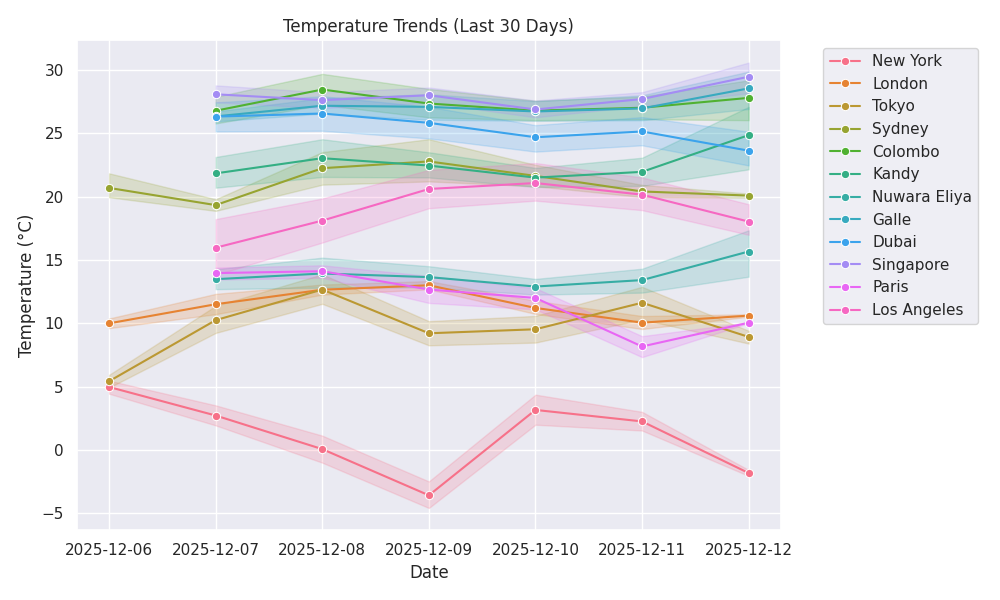
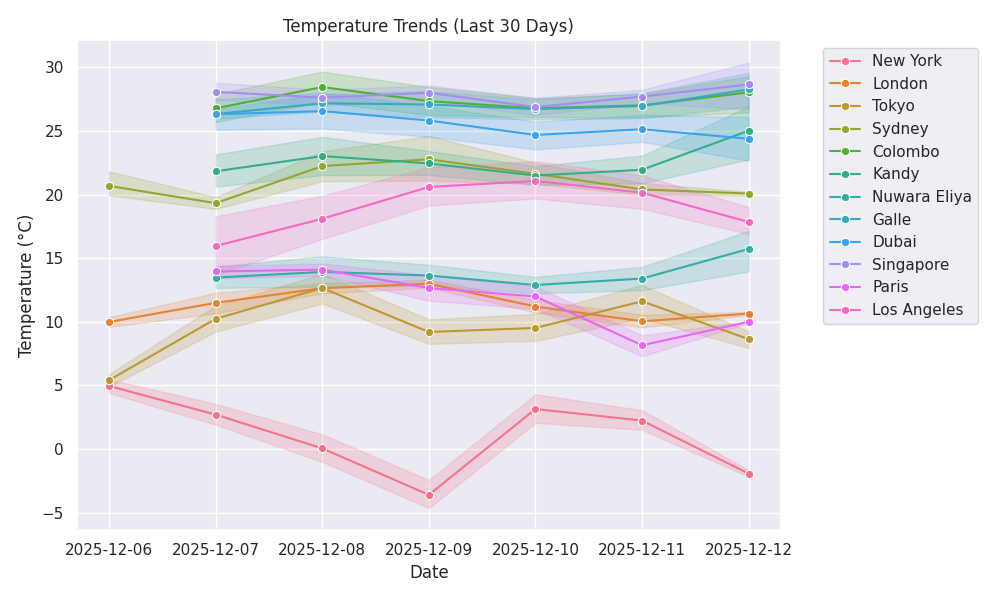
🌦 Weather update: 2025-12-12 08:20

diff --git a/public/index.html b/public/index.html
@@ -11,7 +11,7 @@
     <div class="max-w-6xl mx-auto">
         <header class="mb-8 text-center">
             <h1 class="text-4xl font-bold mb-2">🌍 Global Weather Dashboard</h1>
-            <p class="text-slate-400">Last Updated: 2025-12-12 07:17:36</p>
+            <p class="text-slate-400">Last Updated: 2025-12-12 08:20:01</p>
         </header>
         
         <!-- AI Summary -->
@@ -26,15 +26,15 @@
             <div class="bg-slate-800 p-6 rounded-xl shadow-lg border-t-4 border-blue-500 hover:scale-105 transition-transform">
                 <div class="flex justify-between items-start">
                     <h3 class="text-xl font-bold">Paris</h3>
-                    <span class="text-3xl">☁</span>
+                    <span class="text-3xl">🌫</span>
                 </div>
                 <div class="mt-4">
-                    <p class="text-4xl font-bold">10.02°C</p>
-                    <p class="text-slate-400 capitalize">overcast clouds</p>
+                    <p class="text-4xl font-bold">9.76°C</p>
+                    <p class="text-slate-400 capitalize">mist</p>
                 </div>
                 <div class="mt-4 text-sm text-slate-500">
-                    <p>💧 Humidity: 94%</p>
-                    <p>💨 Wind: 3.6 m/s</p>
+                    <p>💧 Humidity: 96%</p>
+                    <p>💨 Wind: 5.14 m/s</p>
                 </div>
             </div>
             
@@ -44,27 +44,27 @@
                     <span class="text-3xl">☁</span>
                 </div>
                 <div class="mt-4">
-                    <p class="text-4xl font-bold">10.84°C</p>
-                    <p class="text-slate-400 capitalize">broken clouds</p>
+                    <p class="text-4xl font-bold">10.98°C</p>
+                    <p class="text-slate-400 capitalize">overcast clouds</p>
                 </div>
                 <div class="mt-4 text-sm text-slate-500">
-                    <p>💧 Humidity: 92%</p>
-                    <p>💨 Wind: 2.57 m/s</p>
+                    <p>💧 Humidity: 91%</p>
+                    <p>💨 Wind: 3.09 m/s</p>
                 </div>
             </div>
             
             <div class="bg-slate-800 p-6 rounded-xl shadow-lg border-t-4 border-blue-500 hover:scale-105 transition-transform">
                 <div class="flex justify-between items-start">
                     <h3 class="text-xl font-bold">Sydney</h3>
-                    <span class="text-3xl">🌧</span>
+                    <span class="text-3xl">☁</span>
                 </div>
                 <div class="mt-4">
-                    <p class="text-4xl font-bold">19.94°C</p>
-                    <p class="text-slate-400 capitalize">light rain</p>
+                    <p class="text-4xl font-bold">20.11°C</p>
+                    <p class="text-slate-400 capitalize">overcast clouds</p>
                 </div>
                 <div class="mt-4 text-sm text-slate-500">
                     <p>💧 Humidity: 84%</p>
-                    <p>💨 Wind: 7.72 m/s</p>
+                    <p>💨 Wind: 5.14 m/s</p>
                 </div>
             </div>
             
@@ -74,12 +74,12 @@
                     <span class="text-3xl">☁</span>
                 </div>
                 <div class="mt-4">
-                    <p class="text-4xl font-bold">27.15°C</p>
+                    <p class="text-4xl font-bold">23.81°C</p>
                     <p class="text-slate-400 capitalize">broken clouds</p>
                 </div>
                 <div class="mt-4 text-sm text-slate-500">
-                    <p>💧 Humidity: 82%</p>
-                    <p>💨 Wind: 4.12 m/s</p>
+                    <p>💧 Humidity: 96%</p>
+                    <p>💨 Wind: 5.66 m/s</p>
                 </div>
             </div>
             
@@ -89,12 +89,12 @@
                     <span class="text-3xl">☀</span>
                 </div>
                 <div class="mt-4">
-                    <p class="text-4xl font-bold">26.96°C</p>
+                    <p class="text-4xl font-bold">28.96°C</p>
                     <p class="text-slate-400 capitalize">clear sky</p>
                 </div>
                 <div class="mt-4 text-sm text-slate-500">
-                    <p>💧 Humidity: 34%</p>
-                    <p>💨 Wind: 2.06 m/s</p>
+                    <p>💧 Humidity: 26%</p>
+                    <p>💨 Wind: 2.57 m/s</p>
                 </div>
             </div>
             
@@ -104,12 +104,12 @@
                     <span class="text-3xl">☁</span>
                 </div>
                 <div class="mt-4">
-                    <p class="text-4xl font-bold">30.52°C</p>
+                    <p class="text-4xl font-bold">26.63°C</p>
                     <p class="text-slate-400 capitalize">broken clouds</p>
                 </div>
                 <div class="mt-4 text-sm text-slate-500">
-                    <p>💧 Humidity: 74%</p>
-                    <p>💨 Wind: 3.51 m/s</p>
+                    <p>💧 Humidity: 81%</p>
+                    <p>💨 Wind: 3.33 m/s</p>
                 </div>
             </div>
             
@@ -119,12 +119,12 @@
                     <span class="text-3xl">☁</span>
                 </div>
                 <div class="mt-4">
-                    <p class="text-4xl font-bold">16.71°C</p>
+                    <p class="text-4xl font-bold">16.14°C</p>
                     <p class="text-slate-400 capitalize">overcast clouds</p>
                 </div>
                 <div class="mt-4 text-sm text-slate-500">
-                    <p>💧 Humidity: 78%</p>
-                    <p>💨 Wind: 2.02 m/s</p>
+                    <p>💧 Humidity: 81%</p>
+                    <p>💨 Wind: 1.9 m/s</p>
                 </div>
             </div>
             
@@ -134,12 +134,12 @@
                     <span class="text-3xl">☁</span>
                 </div>
                 <div class="mt-4">
-                    <p class="text-4xl font-bold">27.18°C</p>
+                    <p class="text-4xl font-bold">26.05°C</p>
                     <p class="text-slate-400 capitalize">overcast clouds</p>
                 </div>
                 <div class="mt-4 text-sm text-slate-500">
-                    <p>💧 Humidity: 66%</p>
-                    <p>💨 Wind: 2.11 m/s</p>
+                    <p>💧 Humidity: 76%</p>
+                    <p>💨 Wind: 1.89 m/s</p>
                 </div>
             </div>
             
@@ -149,12 +149,12 @@
                     <span class="text-3xl">☁</span>
                 </div>
                 <div class="mt-4">
-                    <p class="text-4xl font-bold">28.91°C</p>
+                    <p class="text-4xl font-bold">29.46°C</p>
                     <p class="text-slate-400 capitalize">overcast clouds</p>
                 </div>
                 <div class="mt-4 text-sm text-slate-500">
                     <p>💧 Humidity: 74%</p>
-                    <p>💨 Wind: 3.32 m/s</p>
+                    <p>💨 Wind: 4.15 m/s</p>
                 </div>
             </div>
             
@@ -164,12 +164,12 @@
                     <span class="text-3xl">☁</span>
                 </div>
                 <div class="mt-4">
-                    <p class="text-4xl font-bold">-2.17°C</p>
-                    <p class="text-slate-400 capitalize">few clouds</p>
+                    <p class="text-4xl font-bold">-2.48°C</p>
+                    <p class="text-slate-400 capitalize">broken clouds</p>
                 </div>
                 <div class="mt-4 text-sm text-slate-500">
-                    <p>💧 Humidity: 55%</p>
-                    <p>💨 Wind: 7.72 m/s</p>
+                    <p>💧 Humidity: 52%</p>
+                    <p>💨 Wind: 10.29 m/s</p>
                 </div>
             </div>
             
@@ -179,12 +179,12 @@
                     <span class="text-3xl">☁</span>
                 </div>
                 <div class="mt-4">
-                    <p class="text-4xl font-bold">8.03°C</p>
+                    <p class="text-4xl font-bold">7.0°C</p>
                     <p class="text-slate-400 capitalize">few clouds</p>
                 </div>
                 <div class="mt-4 text-sm text-slate-500">
-                    <p>💧 Humidity: 35%</p>
-                    <p>💨 Wind: 10.29 m/s</p>
+                    <p>💧 Humidity: 37%</p>
+                    <p>💨 Wind: 9.77 m/s</p>
                 </div>
             </div>
             
@@ -194,12 +194,12 @@
                     <span class="text-3xl">🌫</span>
                 </div>
                 <div class="mt-4">
-                    <p class="text-4xl font-bold">16.81°C</p>
+                    <p class="text-4xl font-bold">16.8°C</p>
                     <p class="text-slate-400 capitalize">fog</p>
                 </div>
                 <div class="mt-4 text-sm text-slate-500">
-                    <p>💧 Humidity: 68%</p>
-                    <p>💨 Wind: 1.54 m/s</p>
+                    <p>💧 Humidity: 64%</p>
+                    <p>💨 Wind: 0.0 m/s</p>
                 </div>
             </div>
             

diff --git a/README.md b/README.md
@@ -8,8 +8,8 @@
 
 ---
 
-## ⚡ Live Status (Updated: 2025-12-12 07:17 UTC)
-![Paris](https://img.shields.io/badge/Paris-10.02°C-blue) ![London](https://img.shields.io/badge/London-10.84°C-blue) ![Sydney](https://img.shields.io/badge/Sydney-19.94°C-green) ![Singapore](https://img.shields.io/badge/Singapore-27.15°C-orange) ![Dubai](https://img.shields.io/badge/Dubai-26.96°C-orange) ![Galle](https://img.shields.io/badge/Galle-30.52°C-red) ![Nuwara Eliya](https://img.shields.io/badge/Nuwara%20Eliya-16.71°C-green) ![Kandy](https://img.shields.io/badge/Kandy-27.18°C-orange) ![Colombo](https://img.shields.io/badge/Colombo-28.91°C-orange) ![New York](https://img.shields.io/badge/New%20York--2.17°C-blue) ![Tokyo](https://img.shields.io/badge/Tokyo-8.03°C-blue) ![Los Angeles](https://img.shields.io/badge/Los%20Angeles-16.81°C-green) 
+## ⚡ Live Status (Updated: 2025-12-12 08:20 UTC)
+![Paris](https://img.shields.io/badge/Paris-9.76°C-blue) ![London](https://img.shields.io/badge/London-10.98°C-blue) ![Sydney](https://img.shields.io/badge/Sydney-20.11°C-green) ![Singapore](https://img.shields.io/badge/Singapore-23.81°C-green) ![Dubai](https://img.shields.io/badge/Dubai-28.96°C-orange) ![Galle](https://img.shields.io/badge/Galle-26.63°C-orange) ![Nuwara Eliya](https://img.shields.io/badge/Nuwara%20Eliya-16.14°C-green) ![Kandy](https://img.shields.io/badge/Kandy-26.05°C-orange) ![Colombo](https://img.shields.io/badge/Colombo-29.46°C-orange) ![New York](https://img.shields.io/badge/New%20York--2.48°C-blue) ![Tokyo](https://img.shields.io/badge/Tokyo-7.0°C-blue) ![Los Angeles](https://img.shields.io/badge/Los%20Angeles-16.8°C-green) 
 
 <div align="center">
   <h3>🏆 Weather Records (Live)</h3>
@@ -19,8 +19,8 @@
         <td align="center">❄ <b>Coldest City</b></td>
     </tr>
     <tr>
-        <td align="center"><b>Galle</b><br>30.52°C</td>
-        <td align="center"><b>New York</b><br>-2.17°C</td>
+        <td align="center"><b>Colombo</b><br>29.46°C</td>
+        <td align="center"><b>New York</b><br>-2.48°C</td>
     </tr>
   </table>
 </div>
@@ -28,18 +28,18 @@
 ## 📊 Global Overview
 | 🌍 City | 🌡 Temp | 🌤 Condition | 💧 Humidity | 🌬 Wind |
 |---|---|---|---|---|
-| **Paris** | 10.02°C | overcast clouds | 🟦🟦🟦🟦⬜ 94% | 3.6 m/s |
-| **London** | 10.84°C | broken clouds | 🟦🟦🟦🟦⬜ 92% | 2.57 m/s |
-| **Sydney** | 19.94°C | light rain | 🟦🟦🟦🟦⬜ 84% | 7.72 m/s |
-| **Singapore** | 27.15°C | broken clouds | 🟦🟦🟦🟦⬜ 82% | 4.12 m/s |
-| **Dubai** | 26.96°C | clear sky | 🟦⬜⬜⬜⬜ 34% | 2.06 m/s |
-| **Galle** | 30.52°C | broken clouds | 🟦🟦🟦⬜⬜ 74% | 3.51 m/s |
-| **Nuwara Eliya** | 16.71°C | overcast clouds | 🟦🟦🟦⬜⬜ 78% | 2.02 m/s |
-| **Kandy** | 27.18°C | overcast clouds | 🟦🟦🟦⬜⬜ 66% | 2.11 m/s |
-| **Colombo** | 28.91°C | overcast clouds | 🟦🟦🟦⬜⬜ 74% | 3.32 m/s |
-| **New York** | -2.17°C | few clouds | 🟦🟦⬜⬜⬜ 55% | 7.72 m/s |
-| **Tokyo** | 8.03°C | few clouds | 🟦⬜⬜⬜⬜ 35% | 10.29 m/s |
-| **Los Angeles** | 16.81°C | fog | 🟦🟦🟦⬜⬜ 68% | 1.54 m/s |
+| **Paris** | 9.76°C | mist | 🟦🟦🟦🟦⬜ 96% | 5.14 m/s |
+| **London** | 10.98°C | overcast clouds | 🟦🟦🟦🟦⬜ 91% | 3.09 m/s |
+| **Sydney** | 20.11°C | overcast clouds | 🟦🟦🟦🟦⬜ 84% | 5.14 m/s |
+| **Singapore** | 23.81°C | broken clouds | 🟦🟦🟦🟦⬜ 96% | 5.66 m/s |
+| **Dubai** | 28.96°C | clear sky | 🟦⬜⬜⬜⬜ 26% | 2.57 m/s |
+| **Galle** | 26.63°C | broken clouds | 🟦🟦🟦🟦⬜ 81% | 3.33 m/s |
+| **Nuwara Eliya** | 16.14°C | overcast clouds | 🟦🟦🟦🟦⬜ 81% | 1.9 m/s |
+| **Kandy** | 26.05°C | overcast clouds | 🟦🟦🟦⬜⬜ 76% | 1.89 m/s |
+| **Colombo** | 29.46°C | overcast clouds | 🟦🟦🟦⬜⬜ 74% | 4.15 m/s |
+| **New York** | -2.48°C | broken clouds | 🟦🟦⬜⬜⬜ 52% | 10.29 m/s |
+| **Tokyo** | 7.0°C | few clouds | 🟦⬜⬜⬜⬜ 37% | 9.77 m/s |
+| **Los Angeles** | 16.8°C | fog | 🟦🟦🟦⬜⬜ 64% | 0.0 m/s |
 
 
 ## 📈 Temperature Trends
